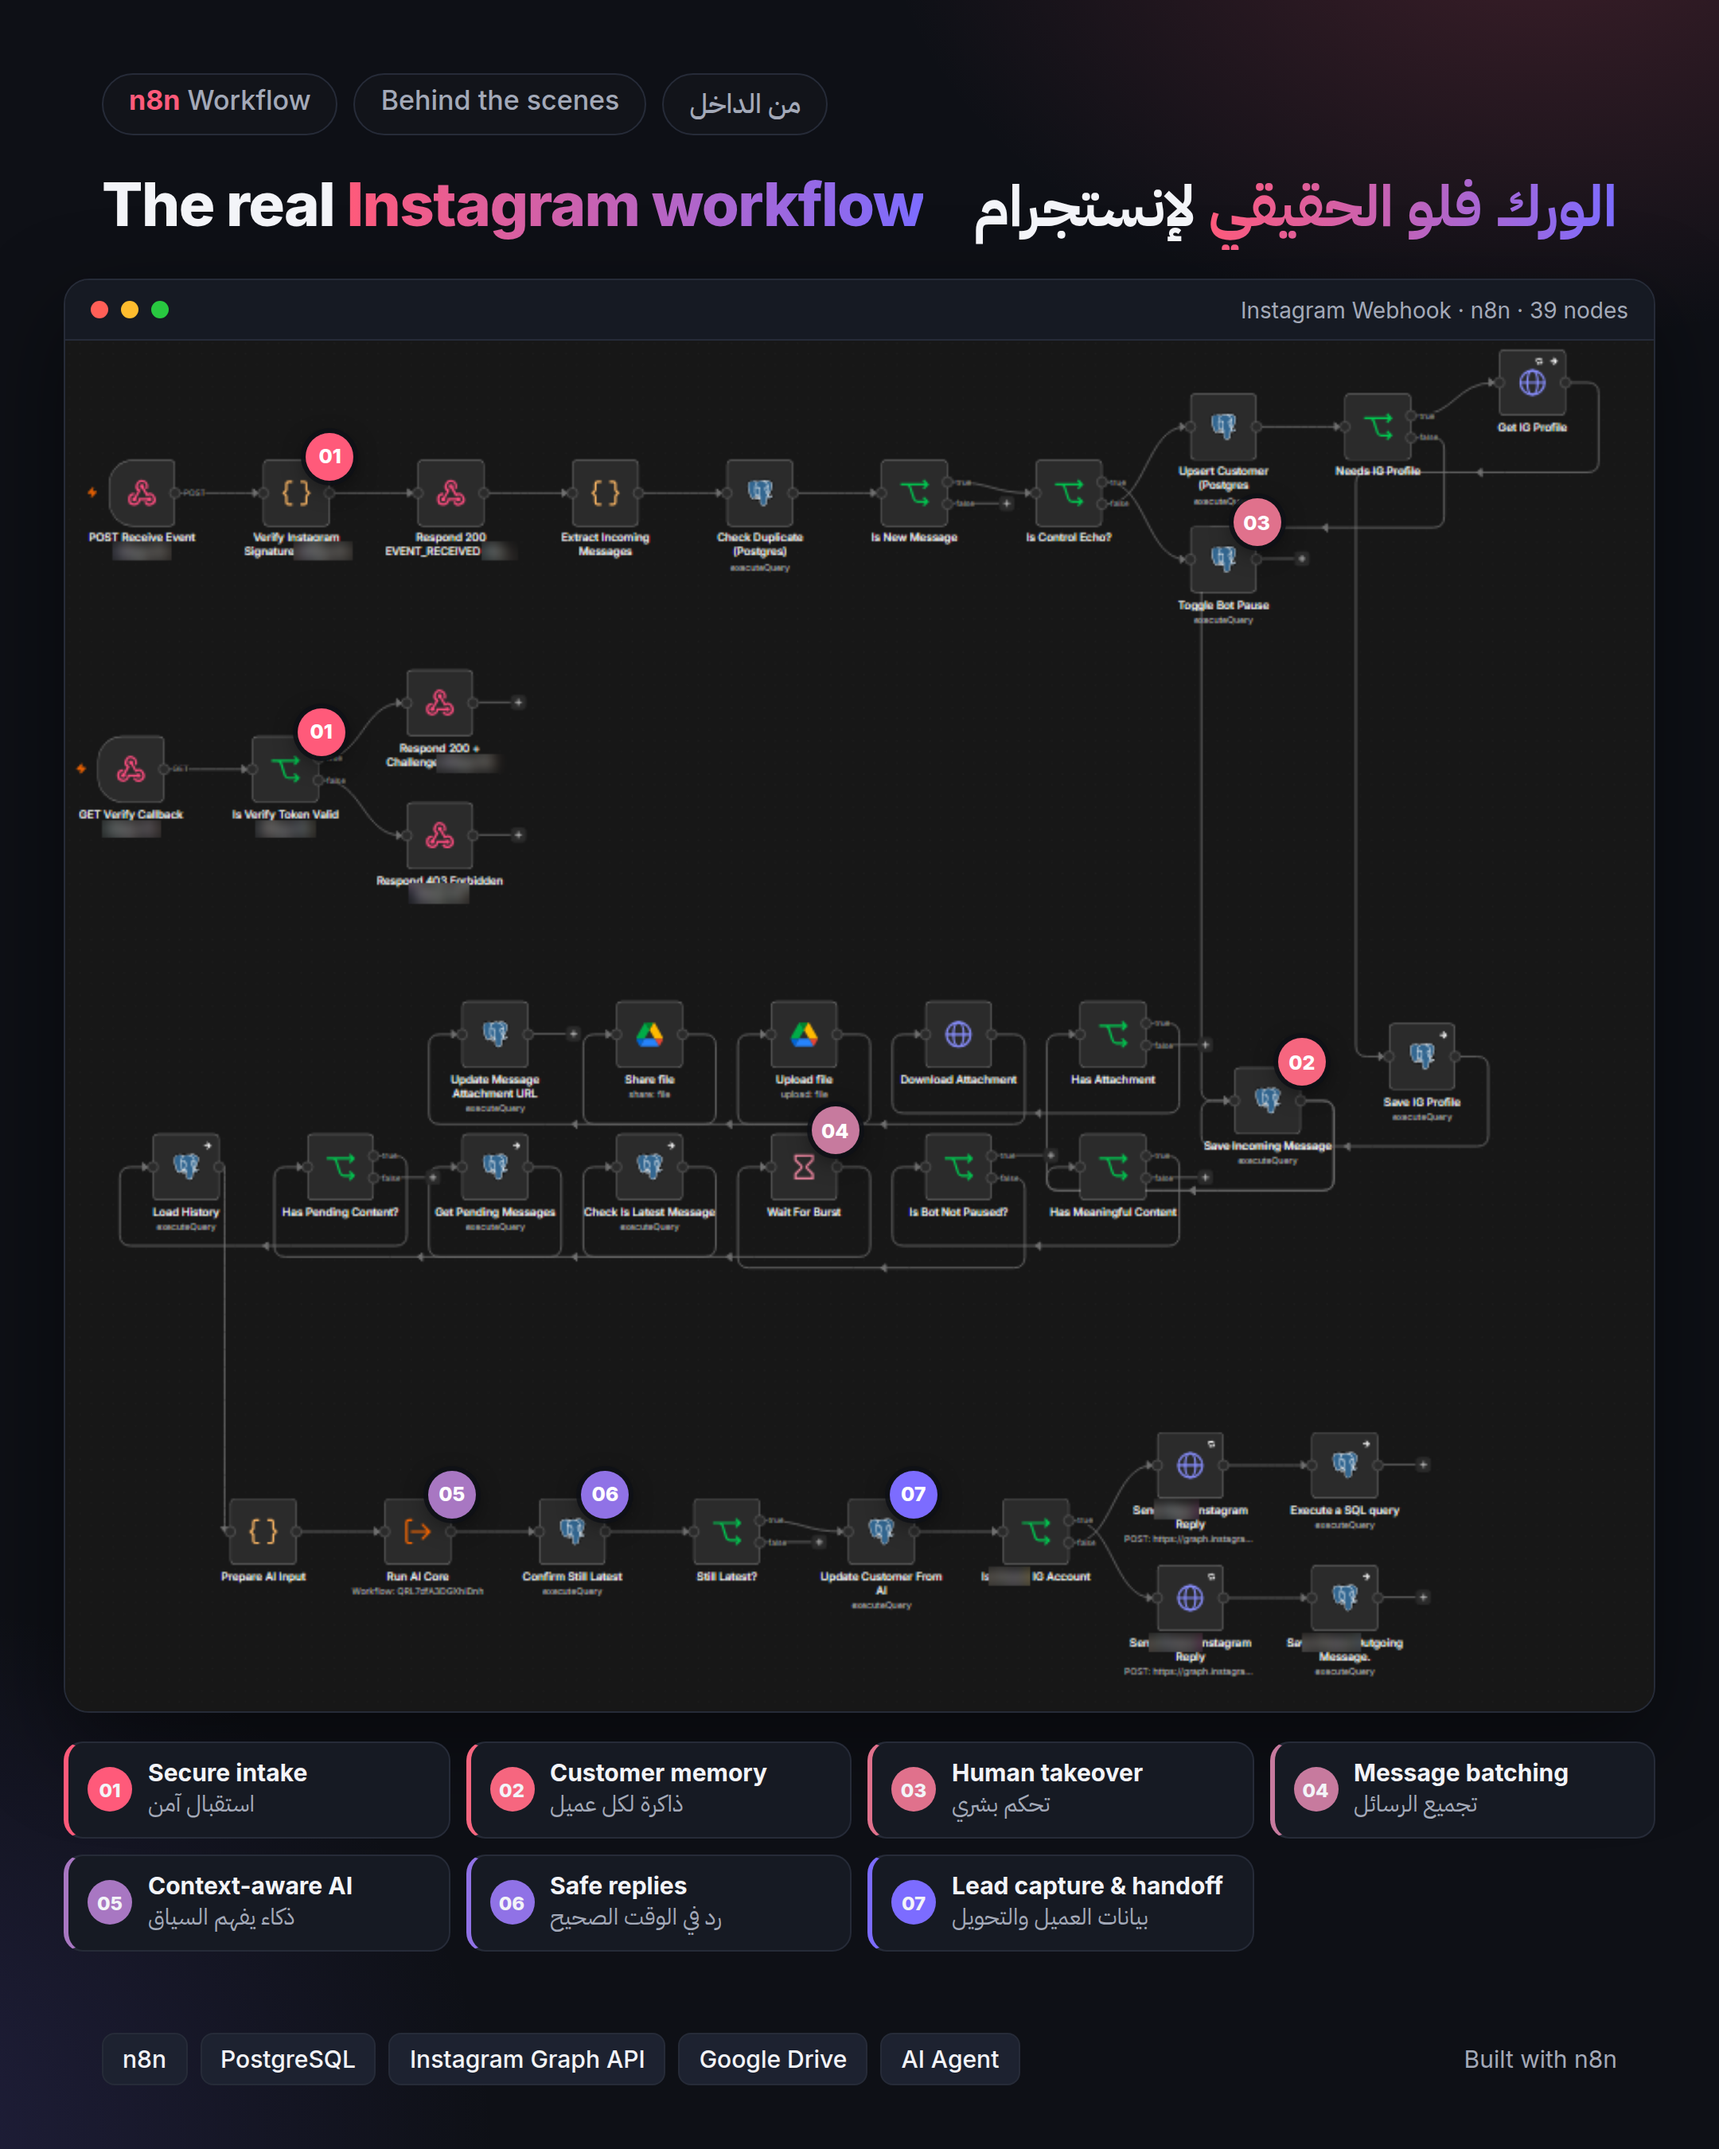
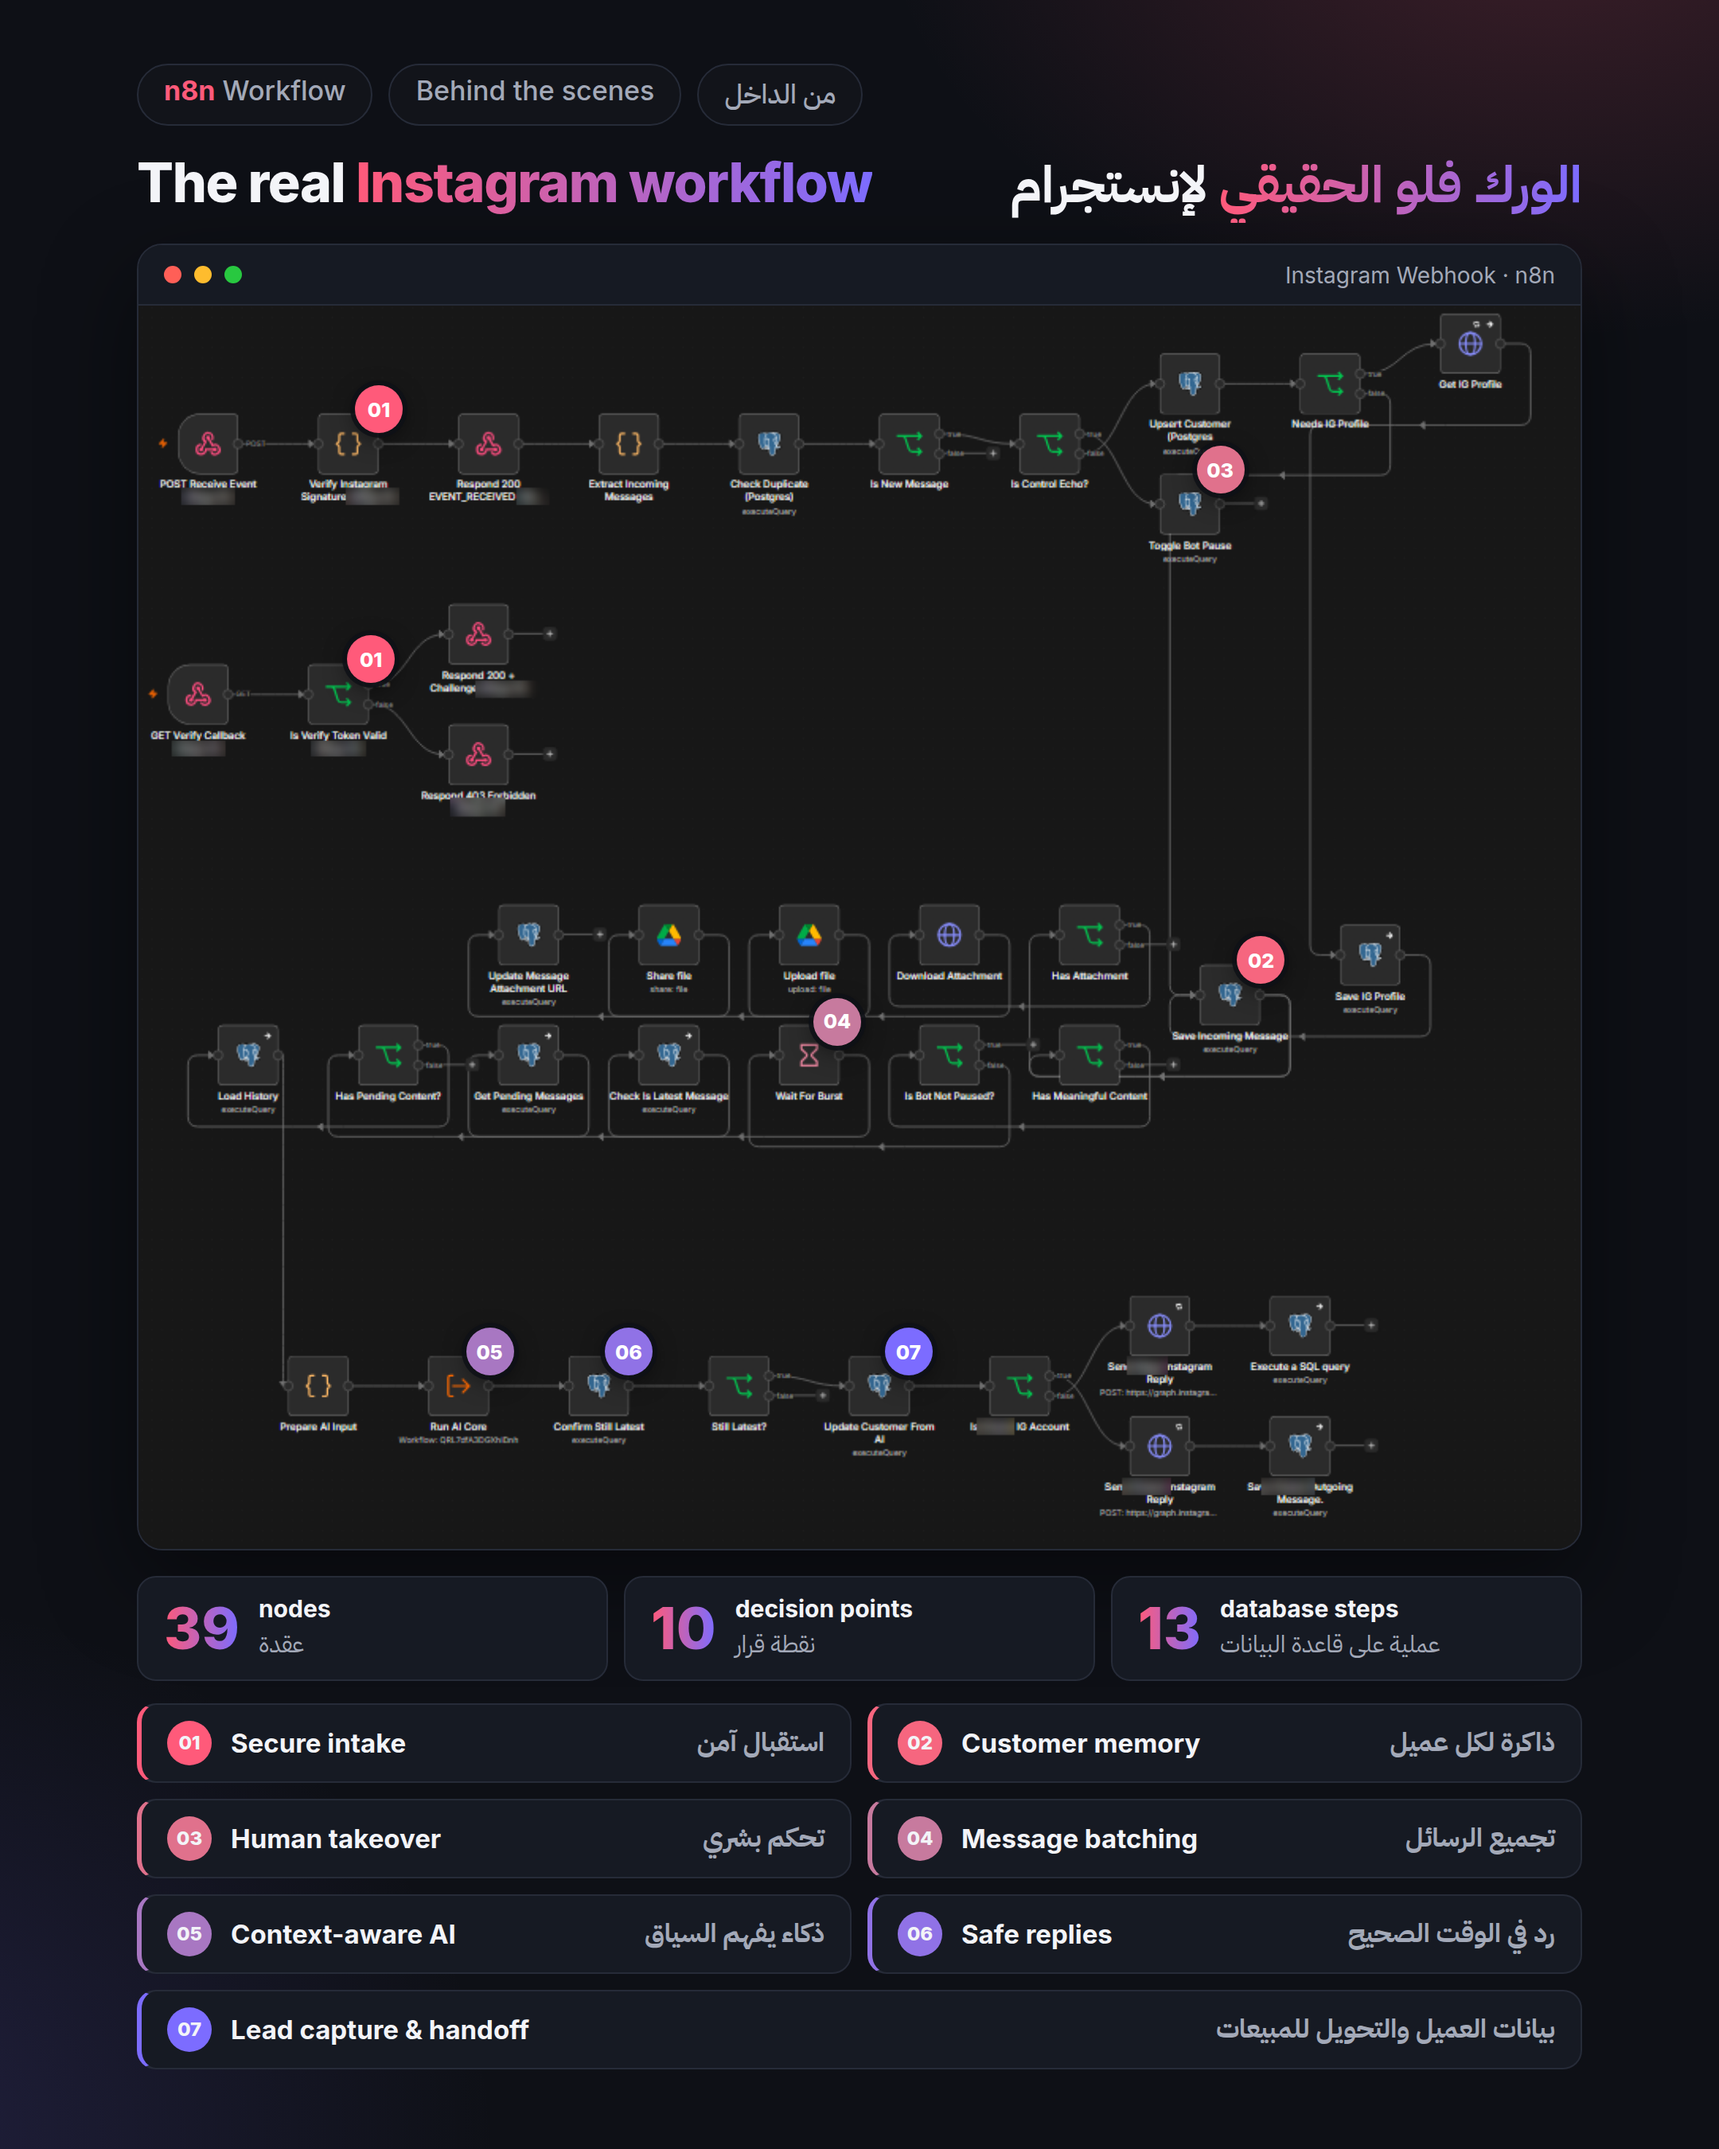
Add stats row and two-column legend to the Instagram workflow image
Claude-Session: https://claude.ai/code/session_012vB3nHyRhBYPVNiM4aM916

diff --git a/linkedin/instagram/instagram-real.html b/linkedin/instagram/instagram-real.html
@@ -3,29 +3,35 @@
 *{box-sizing:border-box;margin:0;padding:0}
 body{width:1080px;height:1350px;overflow:hidden;background:var(--bg);color:var(--text);font-family:"Inter","IBM Plex Sans Arabic",sans-serif;position:relative}
 .glow{position:absolute;inset:0;background:radial-gradient(600px 400px at 90% -5%,rgba(255,90,122,.20),transparent 70%),radial-gradient(600px 500px at -10% 100%,rgba(124,108,255,.18),transparent 70%)}
-.wrap{position:relative;padding:46px 40px 0}
-.inner{padding:0 24px}
+.wrap{position:relative;padding:40px 86px 0}
+.inner{padding:0}
 .ar{font-family:"IBM Plex Sans Arabic",sans-serif;direction:rtl;text-align:right}
 .chips{display:flex;gap:10px}
 .chip{font-size:17px;font-weight:500;color:var(--muted);border:1px solid var(--line);border-radius:999px;padding:6px 16px;background:rgba(255,255,255,.02)}
 .chip b{color:var(--accent);font-weight:700}
-.head{display:flex;justify-content:space-between;align-items:baseline;margin-top:22px}
-h1{font-size:38px;line-height:1.15;font-weight:800;letter-spacing:-.02em}
+.head{display:flex;justify-content:space-between;align-items:baseline;margin-top:16px}
+h1{font-size:34px;line-height:1.15;font-weight:800;letter-spacing:-.02em}
 h1 em{font-style:normal;background:linear-gradient(90deg,var(--accent),var(--accent2));-webkit-background-clip:text;color:transparent}
-.head .ar h1{font-size:36px;font-weight:700;letter-spacing:0}
-.win{margin-top:24px;border:1px solid var(--line);border-radius:16px;overflow:hidden;background:#1a1a1a;box-shadow:0 20px 60px rgba(0,0,0,.45)}
+.head .ar h1{font-size:32px;font-weight:700;letter-spacing:0}
+.win{margin-top:18px;border:1px solid var(--line);border-radius:16px;overflow:hidden;background:#1a1a1a;box-shadow:0 20px 60px rgba(0,0,0,.45)}
 .bar{height:38px;display:flex;align-items:center;gap:8px;padding:0 16px;background:var(--card);border-bottom:1px solid var(--line)}
 .dot{width:11px;height:11px;border-radius:50%}
 .bar .t{margin-left:auto;font-size:14px;color:var(--muted)}
 .shot{position:relative}
 .shot img{display:block;width:100%}
 .mk{position:absolute;transform:translate(-50%,-50%);width:30px;height:30px;border-radius:50%;background:var(--c);color:#fff;font-size:12.5px;font-weight:800;display:grid;place-items:center;box-shadow:0 0 0 3px rgba(14,16,22,.85),0 4px 14px rgba(0,0,0,.5)}
-.legend{margin-top:18px;display:grid;grid-template-columns:repeat(4,1fr);gap:10px}
-.li{display:flex;align-items:center;gap:10px;background:var(--card);border:1px solid var(--line);border-left:3px solid var(--c);border-radius:12px;padding:10px 12px}
+.legend{margin-top:14px;display:grid;grid-template-columns:1fr 1fr;gap:10px}
+.li{display:flex;align-items:center;gap:12px;background:var(--card);border:1px solid var(--line);border-left:3px solid var(--c);border-radius:12px;padding:10px 16px}
 .li .n{flex:none;width:28px;height:28px;border-radius:50%;background:var(--c);display:grid;place-items:center;font-size:12px;font-weight:800}
-.li .en{font-size:15px;font-weight:600;line-height:1.25}
-.li .ar{font-size:14.5px;color:var(--muted);text-align:left;line-height:1.4}
-.foot{position:absolute;left:64px;right:64px;bottom:40px;display:flex;justify-content:space-between;align-items:center}
+.li .en{font-size:16.5px;font-weight:600}
+.li .ar{margin-left:auto;font-size:16.5px;font-weight:600;color:var(--muted)}
+.li:last-child{grid-column:1/-1}
+.stats{margin-top:16px;display:grid;grid-template-columns:repeat(3,1fr);gap:10px}
+.st{background:var(--card);border:1px solid var(--line);border-radius:12px;padding:10px 16px;display:grid;grid-template-columns:auto 1fr;column-gap:12px;align-items:center}
+.st b{grid-row:span 2;font-size:36px;font-weight:800;background:linear-gradient(90deg,var(--accent),var(--accent2));-webkit-background-clip:text;color:transparent}
+.st .en{font-size:15px;font-weight:600}
+.st .ar{font-size:15px;color:var(--muted);text-align:left;direction:rtl;justify-self:start}
+.foot{position:absolute;left:86px;right:86px;bottom:28px;display:flex;justify-content:flex-end;align-items:center}
 .stack{display:flex;gap:8px}
 .stack span{font-size:15px;font-weight:500;background:#1d2230;border:1px solid var(--line);border-radius:8px;padding:6px 12px}
 .tag{font-size:15px;color:var(--muted)}
@@ -34,7 +40,7 @@ h1 em{font-style:normal;background:linear-gradient(90deg,var(--accent),var(--acc
 <div class="chips"><span class="chip"><b>n8n</b> Workflow</span><span class="chip">Behind the scenes</span><span class="chip ar">من الداخل</span></div>
 <div class="head"><h1>The real <em>Instagram workflow</em></h1><div class="ar"><h1><em>الورك فلو الحقيقي</em> لإنستجرام</h1></div></div>
 </div>
-<div class="win"><div class="bar"><span class="dot" style="background:#ff5f57"></span><span class="dot" style="background:#febc2e"></span><span class="dot" style="background:#28c840"></span><span class="t">Instagram Webhook · n8n · 39 nodes</span></div>
+<div class="win"><div class="bar"><span class="dot" style="background:#ff5f57"></span><span class="dot" style="background:#febc2e"></span><span class="dot" style="background:#28c840"></span><span class="t">Instagram Webhook · n8n</span></div>
 <div class="shot"><img src="ig_blur.png">
 <div class="mk" style="left:16.67%;top:8.40%;--c:#ff5a7a">01</div>
 <div class="mk" style="left:16.12%;top:28.50%;--c:#ff5a7a">01</div>
@@ -45,14 +51,19 @@ h1 em{font-style:normal;background:linear-gradient(90deg,var(--accent),var(--acc
 <div class="mk" style="left:33.99%;top:84.22%;--c:#9072e6">06</div>
 <div class="mk" style="left:53.40%;top:84.22%;--c:#7c6cff">07</div>
 </div></div>
+<div class="stats">
+<div class="st"><b>39</b><span class="en">nodes</span><span class="ar">عقدة</span></div>
+<div class="st"><b>10</b><span class="en">decision points</span><span class="ar">نقطة قرار</span></div>
+<div class="st"><b>13</b><span class="en">database steps</span><span class="ar">عملية على قاعدة البيانات</span></div>
+</div>
 <div class="legend">
-<div class="li" style="--c:#ff5a7a"><span class="n">01</span><div><div class="en">Secure intake</div><div class="ar">استقبال آمن</div></div></div>
-<div class="li" style="--c:#f6667f"><span class="n">02</span><div><div class="en">Customer memory</div><div class="ar">ذاكرة لكل عميل</div></div></div>
-<div class="li" style="--c:#e0718c"><span class="n">03</span><div><div class="en">Human takeover</div><div class="ar">تحكم بشري</div></div></div>
-<div class="li" style="--c:#c77a9e"><span class="n">04</span><div><div class="en">Message batching</div><div class="ar">تجميع الرسائل</div></div></div>
-<div class="li" style="--c:#a877c2"><span class="n">05</span><div><div class="en">Context-aware AI</div><div class="ar">ذكاء يفهم السياق</div></div></div>
-<div class="li" style="--c:#9072e6"><span class="n">06</span><div><div class="en">Safe replies</div><div class="ar">رد في الوقت الصحيح</div></div></div>
-<div class="li" style="--c:#7c6cff"><span class="n">07</span><div><div class="en">Lead capture &amp; handoff</div><div class="ar">بيانات العميل والتحويل</div></div></div>
+<div class="li" style="--c:#ff5a7a"><span class="n">01</span><span class="en">Secure intake</span><span class="ar">استقبال آمن</span></div>
+<div class="li" style="--c:#f6667f"><span class="n">02</span><span class="en">Customer memory</span><span class="ar">ذاكرة لكل عميل</span></div>
+<div class="li" style="--c:#e0718c"><span class="n">03</span><span class="en">Human takeover</span><span class="ar">تحكم بشري</span></div>
+<div class="li" style="--c:#c77a9e"><span class="n">04</span><span class="en">Message batching</span><span class="ar">تجميع الرسائل</span></div>
+<div class="li" style="--c:#a877c2"><span class="n">05</span><span class="en">Context-aware AI</span><span class="ar">ذكاء يفهم السياق</span></div>
+<div class="li" style="--c:#9072e6"><span class="n">06</span><span class="en">Safe replies</span><span class="ar">رد في الوقت الصحيح</span></div>
+<div class="li" style="--c:#7c6cff"><span class="n">07</span><span class="en">Lead capture &amp; handoff</span><span class="ar">بيانات العميل والتحويل للمبيعات</span></div>
 </div></div>
-<div class="foot"><div class="stack"><span>n8n</span><span>PostgreSQL</span><span>Instagram Graph API</span><span>Google Drive</span><span>AI Agent</span></div><div class="tag">Built with n8n</div></div>
+<div class="foot"></div>
 </body></html>
